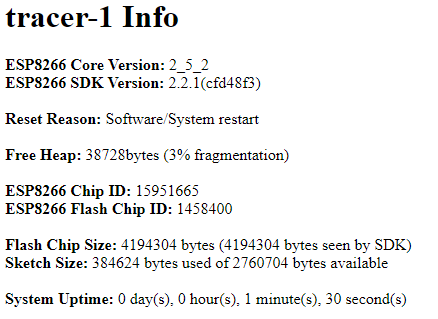
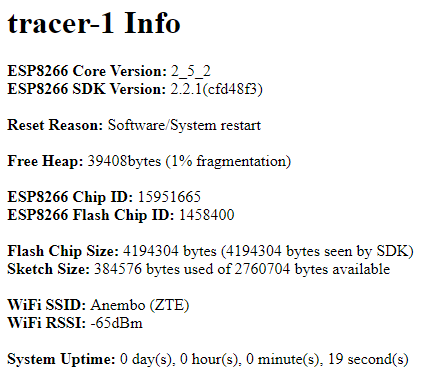
Updates to info page

diff --git a/src/main.cpp b/src/main.cpp
@@ -461,27 +461,24 @@ void info()
   int systemUpTimeHr = (millisecs / (60 * 60)) % 24;
   int systemUpTimeDy = (millisecs / (60 * 60 * 24));
 
-  // compose uptime string
-  String uptime = "<b>System Uptime:</b> " + String(systemUpTimeDy) + " day(s), " +
-                  systemUpTimeHr + " hour(s), " + systemUpTimeMn + " minute(s), " +
-                  systemUpTimeSc + " second(s)";
-
   // compose info string
   String info = htmlHeader(String(HOSTNAME) + " Info") + "<h1>" + String(HOSTNAME) + " Info </h1>" +
-                "<b>ESP8266 Core Version:</b> " + String(ESP.getCoreVersion()) + "</br>" +
-                "<b>ESP8266 SDK Version:</b> " + String(ESP.getSdkVersion()) + "</br></br>" +
-                "<b>Reset Reason:</b> " + String(ESP.getResetReason()) + "</br></br>" +
-                "<b>Free Heap:</b> " + String(ESP.getFreeHeap()) + "bytes (" +
-                ESP.getHeapFragmentation() + "% fragmentation)</br></br>"
-                                             "<b>ESP8266 Chip ID:</b> " +
-                String(ESP.getChipId()) + "</br>" +
-                "<b>ESP8266 Flash Chip ID:</b> " + String(ESP.getFlashChipId()) + "</br></br>" +
-                "<b>Flash Chip Size:</b> " + String(ESP.getFlashChipRealSize()) + " bytes (" +
+                "<b>ESP8266 Core Version:</b> " + ESP.getCoreVersion() + "</br>" +
+                "<b>ESP8266 SDK Version:</b> " + ESP.getSdkVersion() + "</br></br>" +
+                "<b>Reset Reason:</b> " + ESP.getResetReason() + "</br></br>" +
+                "<b>Free Heap:</b> " + ESP.getFreeHeap() + "bytes (" +
+                ESP.getHeapFragmentation() + "% fragmentation)</br></br>" +
+                "<b>ESP8266 Chip ID:</b> " + ESP.getChipId() + "</br>" +
+                "<b>ESP8266 Flash Chip ID:</b> " + ESP.getFlashChipId() + "</br></br>" +
+                "<b>Flash Chip Size:</b> " + ESP.getFlashChipRealSize() + " bytes (" +
                 ESP.getFlashChipSize() + " bytes seen by SDK) </br>" +
-                "<b>Sketch Size:</b> " + String(ESP.getSketchSize()) + " bytes used of " +
-                String(ESP.getFreeSketchSpace()) + " bytes available"
-                                                   "</br></br>" +
-                uptime + htmlFooter();
+                "<b>Sketch Size:</b> " + ESP.getSketchSize() + " bytes used of " +
+                ESP.getFreeSketchSpace() + " bytes available</br></br>" +
+                "<b>WiFi SSID:</b> " + WiFi.SSID() + "</br>" +
+                "<b>WiFi RSSI:</b> " + WiFi.RSSI() + "dBm</br></br>" +
+                "<b>System Uptime:</b> " + String(systemUpTimeDy) + " day(s), " +
+                systemUpTimeHr + " hour(s), " + systemUpTimeMn + " minute(s), " +
+                systemUpTimeSc + " second(s)" + htmlFooter();
 
   server.send(200, "text/html", info);
 }
